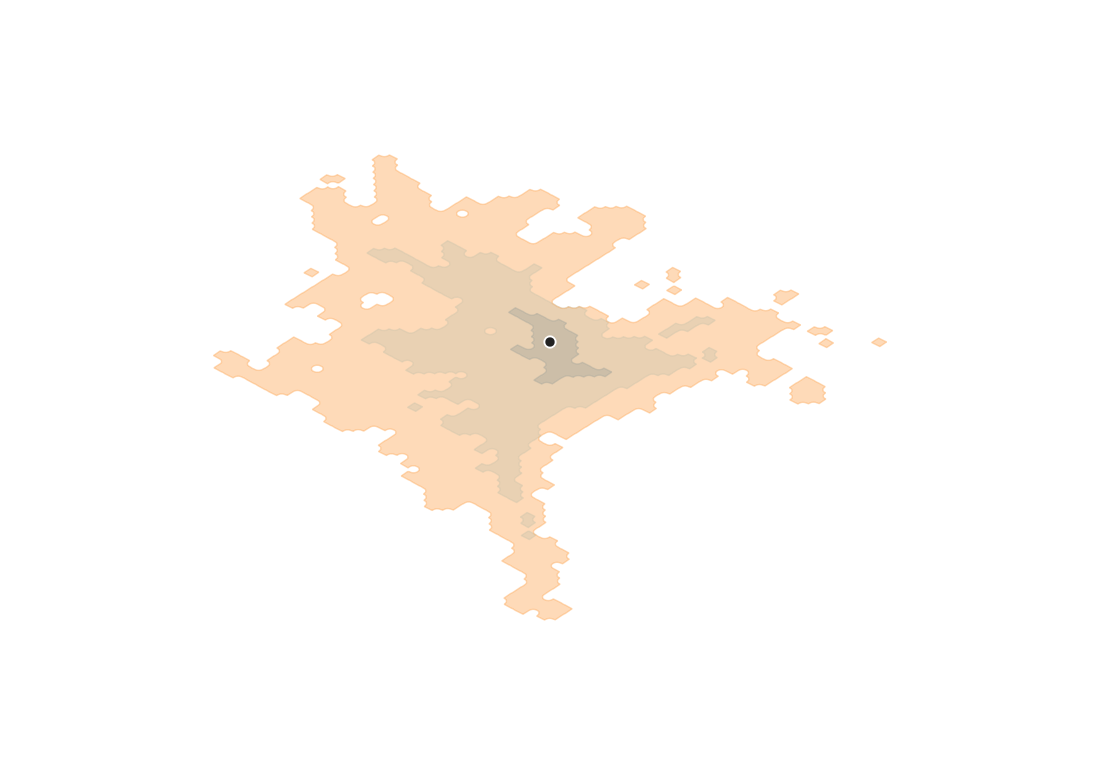
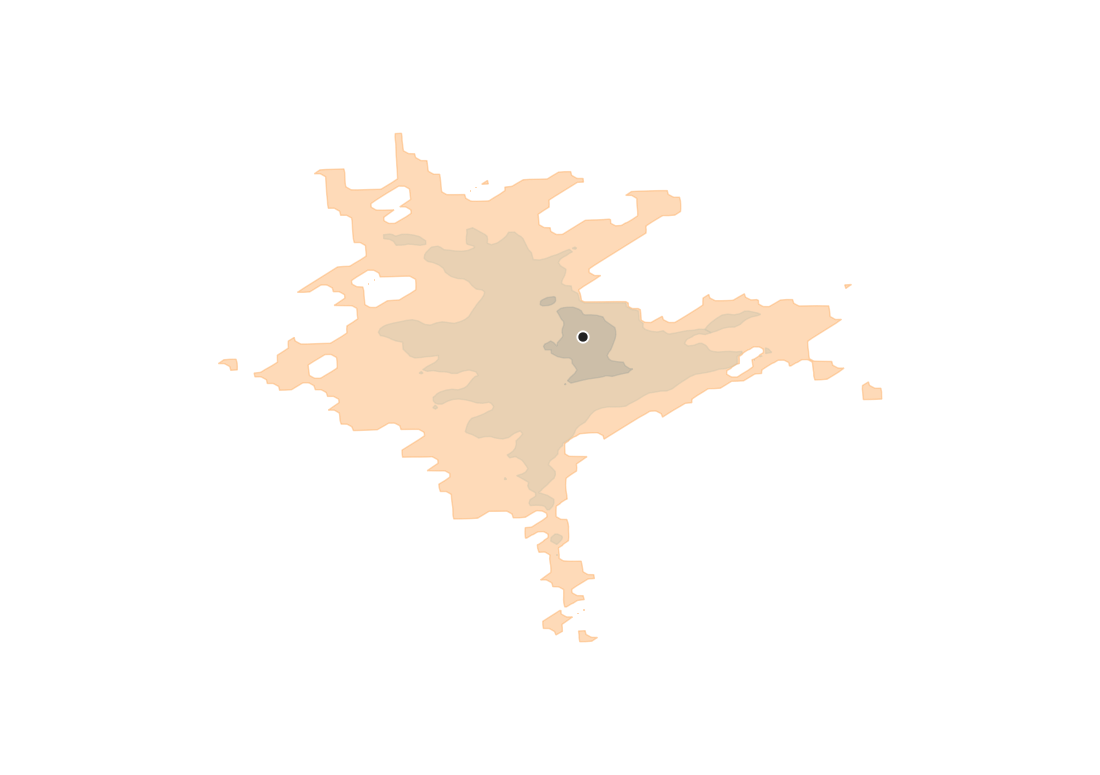
feat(isochrones): proper TIN + marching-squares contour (was cell buffer-union)
Michał asked whether isochrones should use a "native isochrone tool". Findings,
checked against the R5 7.6 jar and the bindings:

- R5 has NO native isochrone/polygon output — no version ships one. Only
  TravelTimeSurfaceTask (a travel-time grid).
- r5r isochrone() = R5 travel-time grid + isoband contouring in R.
- r5py = hex grid + matrix + shapely polygonise.
- Conveyal Analysis = travel-time grid + contour in the browser.

So "grid then contour" IS the standard; there is nothing else to call. The old
implementation took a shortcut — buffer-union of reachable cells — which is
cruder than the marching-squares contour everyone else does.

Now: full grid of travel times (unreachable cells get a sentinel above the
cutoffs so the outer contour closes at the real edge) -> qgis:tininterpolation
raster -> gdal:contour_polygon per cutoff (INTERVAL 0, EXTRA "-fl <c>"). Union
the bands <= c, drop interior rings smaller than ~4 grid cells (interpolation
noise) but keep the real unreachable pockets. One contour run per cutoff, so a
failure on one is reported and skipped.

Verified in QGIS 3.40: single- and multi-origin, EPSG:4326 and EPSG:2180 inputs,
nested/growing per origin, all geometries valid, real holes kept. Screenshot
refreshed.

Changed region(s): [[0.1855, 0.1548, 0.8036, 0.8361]]

diff --git a/easy_r5/algorithms/generate_isochrones.py b/easy_r5/algorithms/generate_isochrones.py
@@ -1,13 +1,20 @@
 """GenerateIsochrones: travel-time isochrone polygons from N origin points.
 
-R5 does not produce polygons (r5r/r5py/Conveyal all contour outside Java —
-``docs/notes/r5-engine-primer.md`` §5), so this builds a regular destination
-grid, runs a one-origin matrix against it (shared ``MatrixBase`` machinery),
-rasterises the travel times and contours each cutoff in QGIS/GDAL.
+R5 has no native isochrone output — no engine version ships one. Every consumer
+does the same thing (``docs/notes/r5-engine-primer.md`` §5):
 
-If contouring fails for one cutoff (a fragmented surface can break GDAL — r5r
-hit a deterministic isoband failure once), that cutoff is reported and skipped;
-the others still come out.
+* **r5r** ``isochrone()`` — R5 travel times to a grid, then contours them in R
+  with the ``isoband`` package;
+* **r5py** — hex grid of destinations, a travel-time matrix, then polygonise
+  in Python (shapely);
+* **Conveyal Analysis** — a travel-time grid, contoured in the browser.
+
+This algorithm is the QGIS equivalent: a regular destination grid → a one-origin
+matrix (shared ``MatrixBase`` machinery) → a TIN-interpolated travel-time raster
+→ ``gdal:contour_polygon`` per cutoff. Same marching-squares contouring r5r's
+``isoband`` does, just in GDAL. Contouring is run once per cutoff so a failure on
+one (r5r hit a deterministic isoband bug on a fragmented surface) is reported and
+skipped without losing the others.
 """
 
 from __future__ import annotations
@@ -34,6 +41,7 @@ from qgis.core import (
     QgsProcessingParameterNumber,
     QgsProcessingParameterString,
     QgsRectangle,
+    QgsVectorLayer,
     QgsWkbTypes,
 )
 
@@ -68,17 +76,19 @@ class GenerateIsochrones(MatrixBase, QgsProcessingAlgorithm):
         return self.tr(
             "Travel-time isochrone polygons from one or more origin points, for "
             "one or more cutoffs. Builds a regular destination grid "
-            "(GRID_SPACING, metres), runs a one-origin matrix against it, then "
-            "contours each cutoff.\n\n"
+            "(GRID_SPACING, metres), runs a one-origin matrix against it, "
+            "interpolates the times to a raster (TIN) and marching-squares "
+            "contours each cutoff — the same approach r5r/r5py/Conveyal use; "
+            "R5 itself has no isochrone output.\n\n"
             "One output feature per (origin, cutoff), tagged origin_id and "
-            "cutoff_min. Polygons are cumulative — the 30-minute area contains "
-            "the 15-minute one. Interior holes are kept where an area is "
-            "genuinely unreachable (a lake, a rail yard, a street-network gap).\n\n"
-            "R5 does not contour — that is done here. If one cutoff fails it is "
-            "reported and skipped; the rest still come out. Grid cost is "
-            "quadratic in 1/GRID_SPACING and blocked above ~400k points. "
-            "MAX_WALK_TIME defaults to max(CUTOFFS) — lossless and the biggest "
-            "speed lever."
+            "cutoff_min, in the origin layer's CRS. Polygons are cumulative — "
+            "the 30-minute area contains the 15-minute one. Interior holes are "
+            "kept where an area is genuinely unreachable (a lake, a rail yard, a "
+            "street-network gap); noise smaller than a few grid cells is dropped.\n\n"
+            "Contouring runs once per cutoff, so a failure on one is reported "
+            "and skipped without losing the rest. Grid cost is quadratic in "
+            "1/GRID_SPACING and blocked above ~400k points. MAX_WALK_TIME "
+            "defaults to max(CUTOFFS) — lossless and the biggest speed lever."
         )
 
     def initAlgorithm(self, config=None):  # noqa: N802
@@ -158,8 +168,9 @@ class GenerateIsochrones(MatrixBase, QgsProcessingAlgorithm):
                     feedback.pushWarning(
                         self.tr("Origin {} reached no grid cell — no isochrone.").format(origin_id))
                     continue
-                written += self._blob_isochrones(
-                    per, grid_xy, spacing, cutoffs, to_out, origin_id, meta_values, sink, feedback
+                written += self._contour_isochrones(
+                    per, grid_xy, spacing, cutoffs, metric, to_out, origin_id, meta_values,
+                    sink, feedback, context,
                 )
             feedback.pushInfo(self.tr("{} isochrone polygons written.").format(written))
             apply_style(context, sink_id, "isochrones.qml")
@@ -171,8 +182,8 @@ class GenerateIsochrones(MatrixBase, QgsProcessingAlgorithm):
 
     def _metric_crs(self, source, context):
         """A metre-based working CRS for buffering: the UTM zone under the origins'
-        centroid. Only used internally for the grid + blob geometry; the output
-        layer is written back in the origin layer's own CRS."""
+        centroid. Only used internally for the grid, raster and contour geometry;
+        the output layer is written back in the origin layer's own CRS."""
         ext = source.sourceExtent()
         c = source.sourceCrs()
         wgs84 = QgsCoordinateReferenceSystem("EPSG:4326")
@@ -243,44 +254,93 @@ class GenerateIsochrones(MatrixBase, QgsProcessingAlgorithm):
                     out.setdefault(row["from_id"], {})[row["to_id"]] = int(v)
         return out
 
-    def _blob_isochrones(self, per, grid_xy, spacing, cutoffs, to_out, origin_id,
-                         meta_values, sink, feedback):
-        """One filled polygon per cutoff: the union of reachable grid cells.
+    def _time_raster(self, per, grid_xy, spacing, metric, cutoffs, context):
+        """TIN-interpolate the origin's travel times over the whole grid to a raster.
 
-        Cumulative — the 30-minute polygon fully contains the 15-minute one.
-        Interior rings are **kept**: an unreachable pocket inside the reachable
-        area (a lake, a rail yard, a gap in the street network) is a real
-        no-service hole and belongs in the isochrone. Only sub-cell specks are
-        smoothed away by the close/open pass. Robust where GDAL contouring is
-        not; one cutoff failing does not stop the rest.
+        Every grid cell gets a value: its travel time if reached, otherwise a
+        sentinel well above the largest cutoff so the outermost contour closes at
+        the reachable edge rather than at the convex hull of reached cells.
         """
-        r = spacing * 0.72  # > half-diagonal of a spacing-sized cell
+        sentinel = float(max(cutoffs) * 3 + 60)
+        lyr = QgsVectorLayer("Point?crs={}".format(metric.authid()), "iso_t", "memory")
+        dp = lyr.dataProvider()
+        dp.addAttributes([QgsField("t", QVariant.Double)])
+        lyr.updateFields()
+        feats = []
+        xs = []
+        ys = []
+        for gid, xy in grid_xy.items():
+            f = QgsFeature(lyr.fields())
+            f.setGeometry(QgsGeometry.fromPointXY(xy))
+            f.setAttributes([float(per.get(gid, sentinel))])
+            feats.append(f)
+            xs.append(xy.x())
+            ys.append(xy.y())
+        dp.addFeatures(feats)
+        lyr.updateExtents()
+        context.temporaryLayerStore().addMapLayer(lyr)
+
+        ext = QgsRectangle(min(xs) - spacing, min(ys) - spacing,
+                           max(xs) + spacing, max(ys) + spacing)
+        return processing.run("qgis:tininterpolation", {
+            "INTERPOLATION_DATA": "{}::~::0::~::0::~::0".format(lyr.id()),
+            "METHOD": 0, "EXTENT": ext, "PIXEL_SIZE": max(10.0, spacing / 2.0),
+            "OUTPUT": "TEMPORARY_OUTPUT",
+        }, context=context, feedback=None)["OUTPUT"]
+
+    def _contour_isochrones(self, per, grid_xy, spacing, cutoffs, metric, to_out,
+                            origin_id, meta_values, sink, feedback, context):
+        """One cumulative polygon per cutoff, marching-squares contoured.
+
+        The 30-minute polygon fully contains the 15-minute one. Interior rings
+        are **kept** where the surface genuinely never dips under the cutoff — a
+        lake, a rail yard, a street-network gap. Rings smaller than a few grid
+        cells are dropped as interpolation noise. Contouring runs once per cutoff
+        so one failure does not lose the rest.
+        """
+        try:
+            raster = self._time_raster(per, grid_xy, spacing, metric, cutoffs, context)
+        except Exception as exc:  # noqa: BLE001
+            feedback.pushWarning(
+                self.tr("Origin {}: could not build the travel-time raster ({}).").format(
+                    origin_id, exc))
+            return 0
+
+        min_ring = spacing * spacing * 4.0
         written = 0
         for c in cutoffs:
             try:
-                squares = [
-                    QgsGeometry.fromPointXY(grid_xy[gid]).buffer(r, 1)
-                    for gid, tt in per.items()
-                    if tt < c and gid in grid_xy
+                bands = processing.run("gdal:contour_polygon", {
+                    "INPUT": raster, "BAND": 1, "INTERVAL": 0, "EXTRA": "-fl {}".format(c),
+                    "FIELD_NAME_MIN": "lmin", "FIELD_NAME_MAX": "lmax",
+                    "CREATE_3D": False, "IGNORE_NODATA": False, "OFFSET": 0,
+                    "OUTPUT": "TEMPORARY_OUTPUT",
+                }, context=context, feedback=None)["OUTPUT"]
+                lyr = bands if not isinstance(bands, str) else QgsVectorLayer(bands, "b", "ogr")
+                inside = [
+                    QgsGeometry(ft.geometry()) for ft in lyr.getFeatures()
+                    if ft["lmax"] is not None and ft["lmax"] <= c + 1e-6
+                    and ft.geometry() and not ft.geometry().isEmpty()
                 ]
-                if not squares:
+                if not inside:
                     continue
-                blob = QgsGeometry.unaryUnion(squares)
-                # round the staircase and fill sub-cell specks, keeping real holes
-                blob = blob.buffer(spacing * 0.5, 4).buffer(-spacing * 0.5, 4).makeValid()
-                if blob.isEmpty():
+                geom = QgsGeometry.unaryUnion(inside).makeValid()
+                trimmed = geom.removeInteriorRings(min_ring)
+                if trimmed is not None and not trimmed.isEmpty():
+                    geom = trimmed
+                if geom.isEmpty():
                     continue
-                blob.transform(to_out)
-                if not blob.isMultipart():
-                    blob.convertToMultiType()
+                geom.transform(to_out)
+                if not geom.isMultipart():
+                    geom.convertToMultiType()
                 out = QgsFeature(self._out_fields())
-                out.setGeometry(blob)
+                out.setGeometry(geom)
                 out.setAttributes([str(origin_id), c] + meta_values)
                 sink.addFeature(out, QgsFeatureSink.FastInsert)
                 written += 1
             except Exception as exc:  # noqa: BLE001
                 feedback.pushWarning(
-                    self.tr("Origin {}: cutoff {} min failed ({}) — skipped.").format(
+                    self.tr("Origin {}: cutoff {} min failed to contour ({}) — skipped.").format(
                         origin_id, c, exc))
         return written
 
